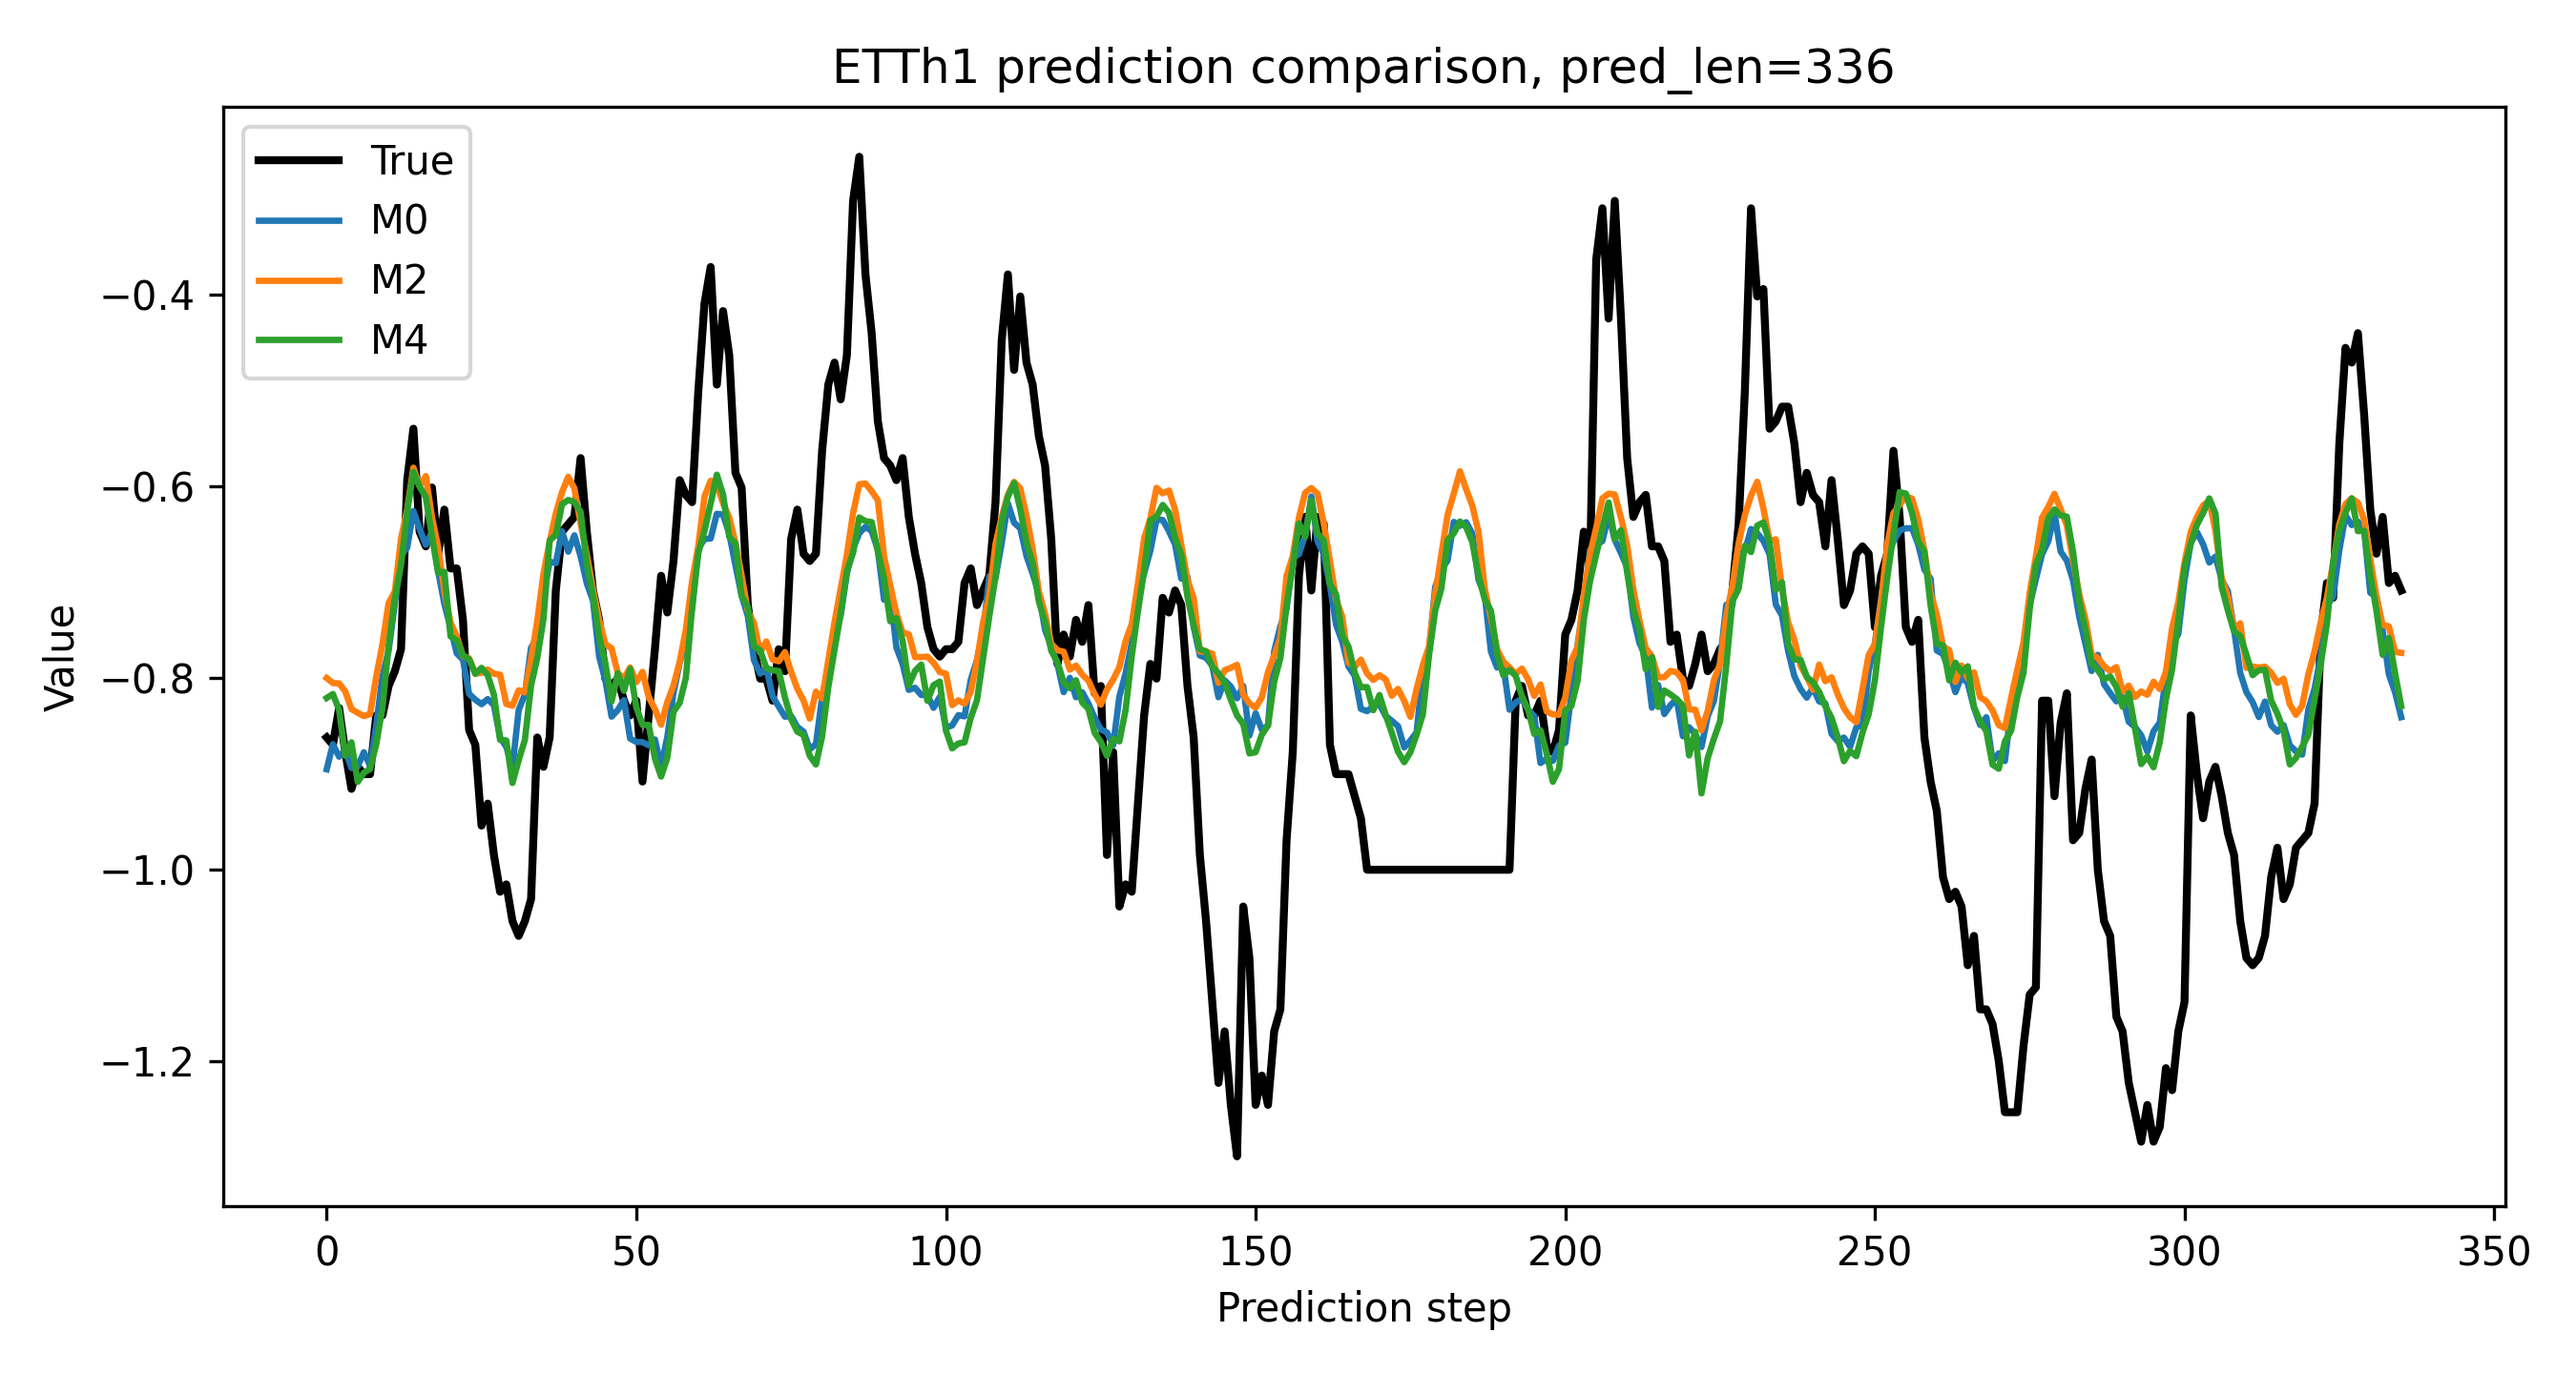
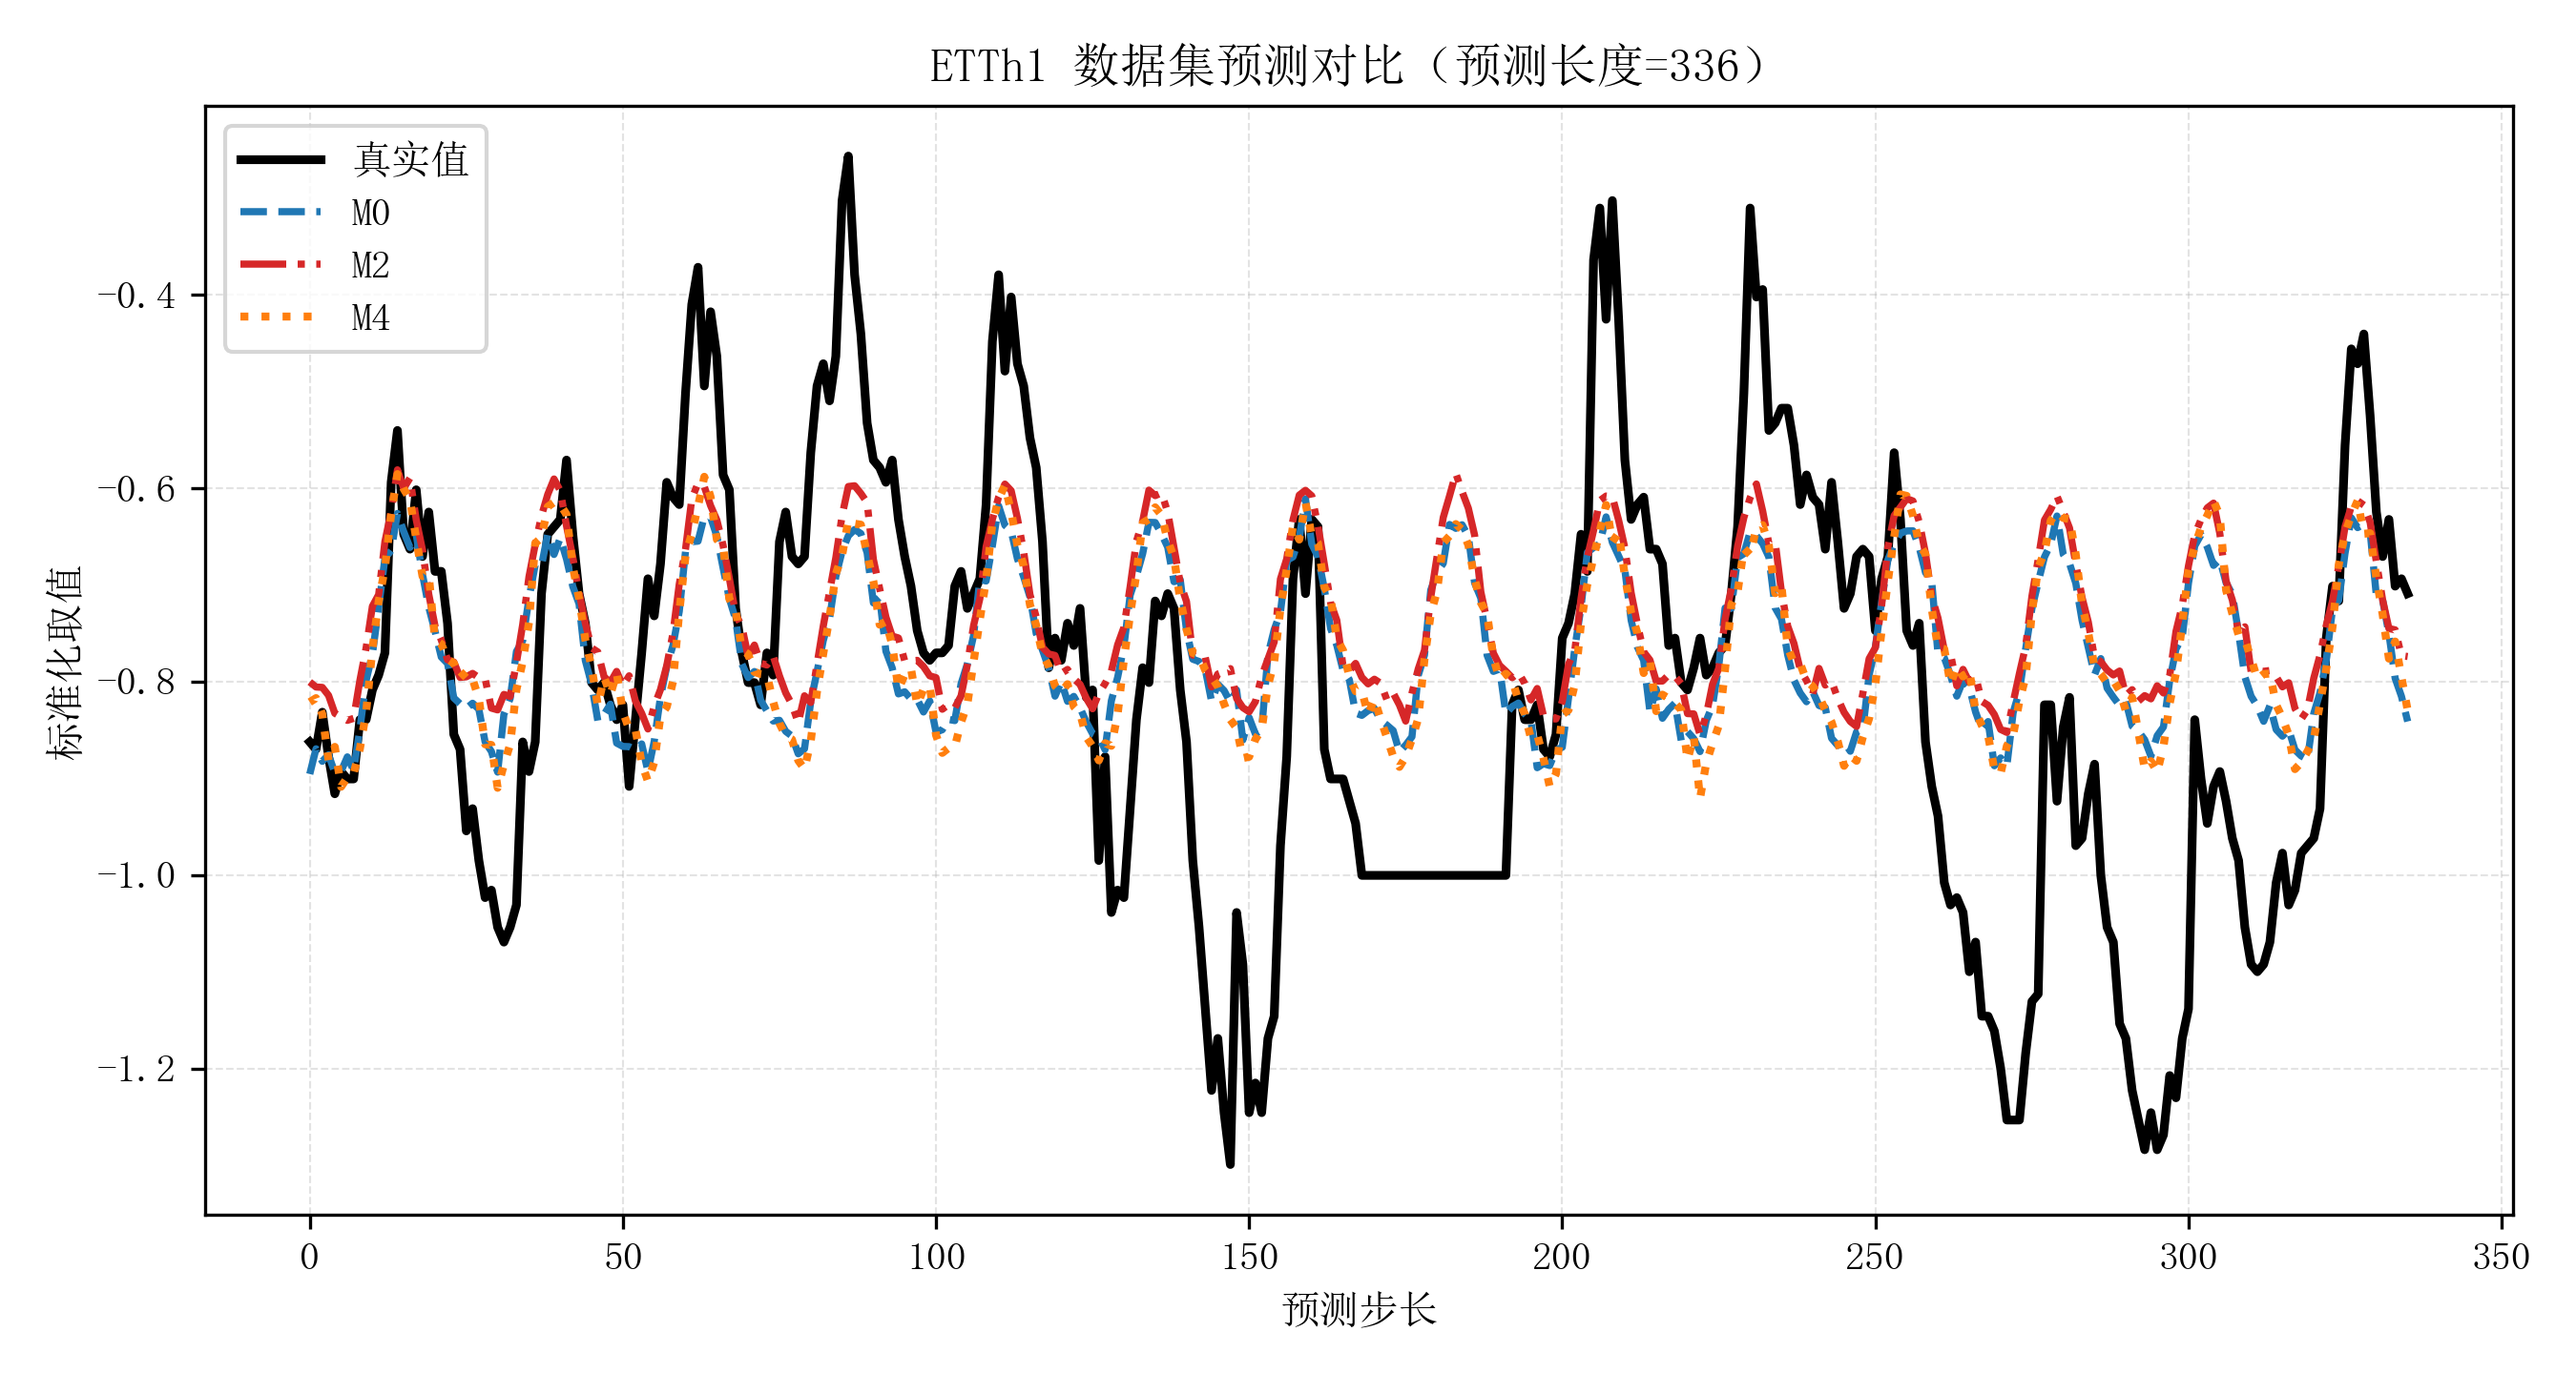
Finalize thesis acknowledgements and forecast figures

diff --git a/pages/acknowledgements.tex b/pages/acknowledgements.tex
@@ -1,3 +1,13 @@
 % acknowledgements.tex
 
-感谢老师，同学们的支持和帮助。
+大学四年的学习生活即将结束，回望这段经历，心中有许多感谢想要表达。
+
+首先，衷心感谢我的指导老师王鸽老师在毕业设计过程中给予的耐心指导和帮助。从选题确定、论文撰写到后期修改，王老师都提出了许多细致而中肯的意见，使我能够不断调整思路、完善内容。王老师严谨负责的态度也让我更加深刻地认识到，完成一项工作不仅需要投入时间，更需要认真、踏实和反复打磨。
+
+感谢学院各位老师在本科阶段的教导。四年的课程学习和实践训练为我打下了专业基础，也让我逐渐形成了分析问题和解决问题的能力。许多知识和方法并不只停留在课堂上，也在这次毕业设计中得到了真正的使用和检验。
+
+感谢同学和朋友们在学习和生活中的陪伴。无论是讨论问题、互相鼓励，还是在紧张阶段一起坚持，你们都让这段过程少了许多压力，多了许多温暖。
+
+也要感谢我的家人一直以来的理解、支持和包容。你们给予我的信任和鼓励，是我能够安心完成学业的重要力量。
+
+最后，感谢这段本科时光带给我的成长。毕业论文的完成并不是终点，而是一个新的开始。未来我仍会带着这几年积累的经验和收获，继续认真面对新的学习、工作和生活。
